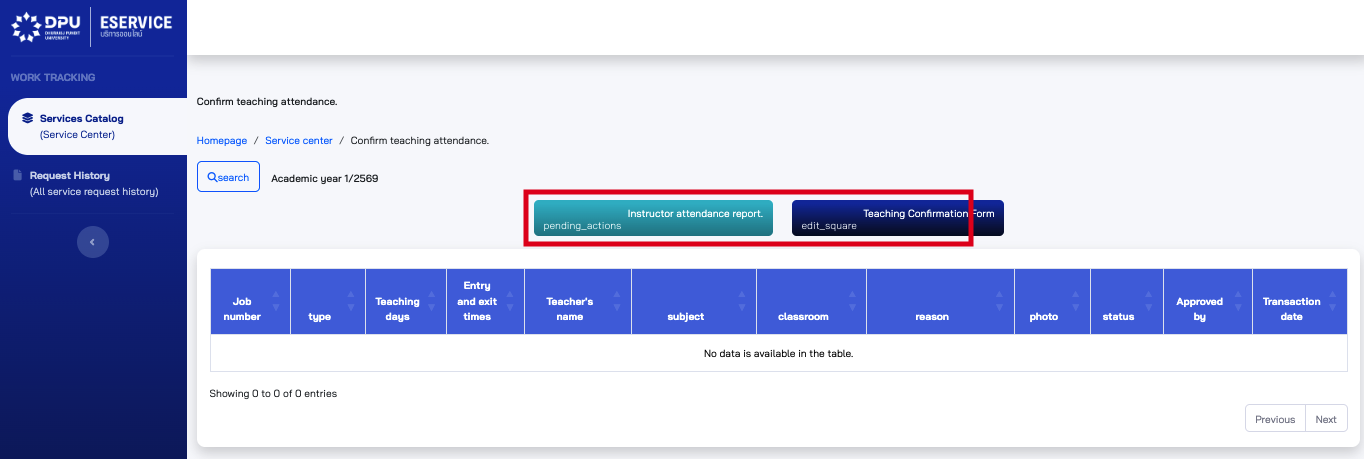
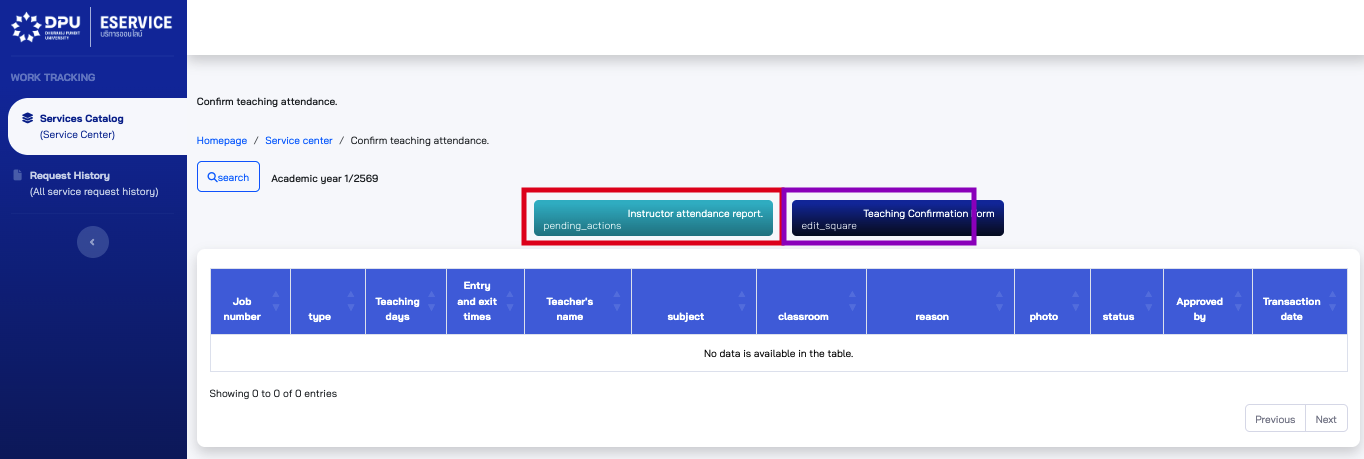
教务须知：红框与配字对齐原始文件——图2左红右紫双框、图3框整卡、图5框整面板；步骤文字改回官方简短版(1点击/2查看·补/3可选语言/4课程打卡记录/5展开颜色)

Changed region(s): [[0.3695, 0.3965, 0.739, 0.549]]

diff --git a/index.html b/index.html
@@ -973,24 +973,24 @@ tr.acc-on .acc-caret{transform:rotate(90deg)}
           <span style="color:#888;font-size:12px">（与 SLCM 帐号密码相同）</span>
         </div>
         <div style="margin-top:14px">
-          <div style="font-size:13px;font-weight:600;color:#3C3489;line-height:1.6;margin-bottom:6px">① 登入 <b>eservice</b> → 服务目录，点最下方「Teaching attendance confirmation」（<span style="color:#c62222">红框</span>）</div>
-          <img src="assets/attendance1.png" loading="lazy" alt="步骤1" style="width:100%;max-width:940px;border:0.5px solid #E5E3F8;border-radius:8px;display:block">
+          <div style="font-size:13px;font-weight:600;color:#3C3489;line-height:1.6;margin-bottom:6px">1. 点击（<span style="color:#c62222">红框</span>处）</div>
+          <img src="assets/attendance1.png" loading="lazy" alt="步骤1 点击" style="width:100%;max-width:940px;border:0.5px solid #E5E3F8;border-radius:8px;display:block">
         </div>
         <div style="margin-top:16px">
-          <div style="font-size:13px;font-weight:600;color:#3C3489;line-height:1.6;margin-bottom:6px">② 若忘记打卡 → 在「确认教学考勤」用<span style="color:#c62222">红框</span>两个入口补登</div>
-          <img src="assets/attendance2.png" loading="lazy" alt="步骤2" style="width:100%;max-width:940px;border:0.5px solid #E5E3F8;border-radius:8px;display:block">
+          <div style="font-size:13px;font-weight:600;color:#3C3489;line-height:1.6;margin-bottom:6px">2. 查看上课打卡记录（左键·<span style="color:#c62222">红框</span>）　／　若上下课忘记打卡，在这里补上（右键·<span style="color:#7a1fa2">紫框</span>）</div>
+          <img src="assets/attendance2.png" loading="lazy" alt="步骤2 查看/补打卡" style="width:100%;max-width:940px;border:0.5px solid #E5E3F8;border-radius:8px;display:block">
         </div>
         <div style="margin-top:16px">
-          <div style="font-size:13px;font-weight:600;color:#3C3489;line-height:1.6;margin-bottom:6px">③ 进入「课表与签到」，查看每堂课的进（签到）/ 出（签退）时间（<span style="color:#c62222">红框</span>）；右上地球可切换语言（<span style="color:#c62222">红框</span>）</div>
-          <img src="assets/attendance3.png" loading="lazy" alt="步骤3" style="width:100%;max-width:940px;border:0.5px solid #E5E3F8;border-radius:8px;display:block">
+          <div style="font-size:13px;font-weight:600;color:#3C3489;line-height:1.6;margin-bottom:6px">3. 可选语言（右上地球·<span style="color:#c62222">红框</span>）　·　4. 课程上课打卡记录（<span style="color:#c62222">红框</span>整卡）</div>
+          <img src="assets/attendance3.png" loading="lazy" alt="步骤3-4 语言/打卡记录" style="width:100%;max-width:940px;border:0.5px solid #E5E3F8;border-radius:8px;display:block">
         </div>
         <div style="margin-top:16px">
-          <div style="font-size:13px;font-weight:600;color:#3C3489;line-height:1.6;margin-bottom:6px">④ 状态颜色（简）：🟢 正常 · 🟡 偏差 10–30 分 · 🔴 未签或超 45 分；点「展开全部颜色」（<span style="color:#c62222">红框</span>）看完整</div>
-          <img src="assets/attendance4.png" loading="lazy" alt="步骤4" style="width:100%;max-width:760px;border:0.5px solid #E5E3F8;border-radius:8px;display:block">
+          <div style="font-size:13px;font-weight:600;color:#3C3489;line-height:1.6;margin-bottom:6px">5. 展开颜色的意义（点<span style="color:#c62222">红框</span>「展开全部颜色」）</div>
+          <img src="assets/attendance4.png" loading="lazy" alt="步骤5 展开颜色" style="width:100%;max-width:760px;border:0.5px solid #E5E3F8;border-radius:8px;display:block">
         </div>
         <div style="margin-top:16px">
-          <div style="font-size:13px;font-weight:600;color:#3C3489;line-height:1.6;margin-bottom:6px">⑤ 全部颜色对照 —— 圆圈左半＝签到、右半＝签退（<span style="color:#c62222">红框说明</span>）</div>
-          <img src="assets/attendance5.png" loading="lazy" alt="步骤5" style="width:100%;max-width:940px;border:0.5px solid #E5E3F8;border-radius:8px;display:block">
+          <div style="font-size:13px;font-weight:600;color:#3C3489;line-height:1.6;margin-bottom:6px">↓ 展开后 —— 完整颜色对照（圆圈左半＝签到、右半＝签退）</div>
+          <img src="assets/attendance5.png" loading="lazy" alt="完整颜色对照" style="width:100%;max-width:940px;border:0.5px solid #E5E3F8;border-radius:8px;display:block">
         </div>
       </div>
     </div>
